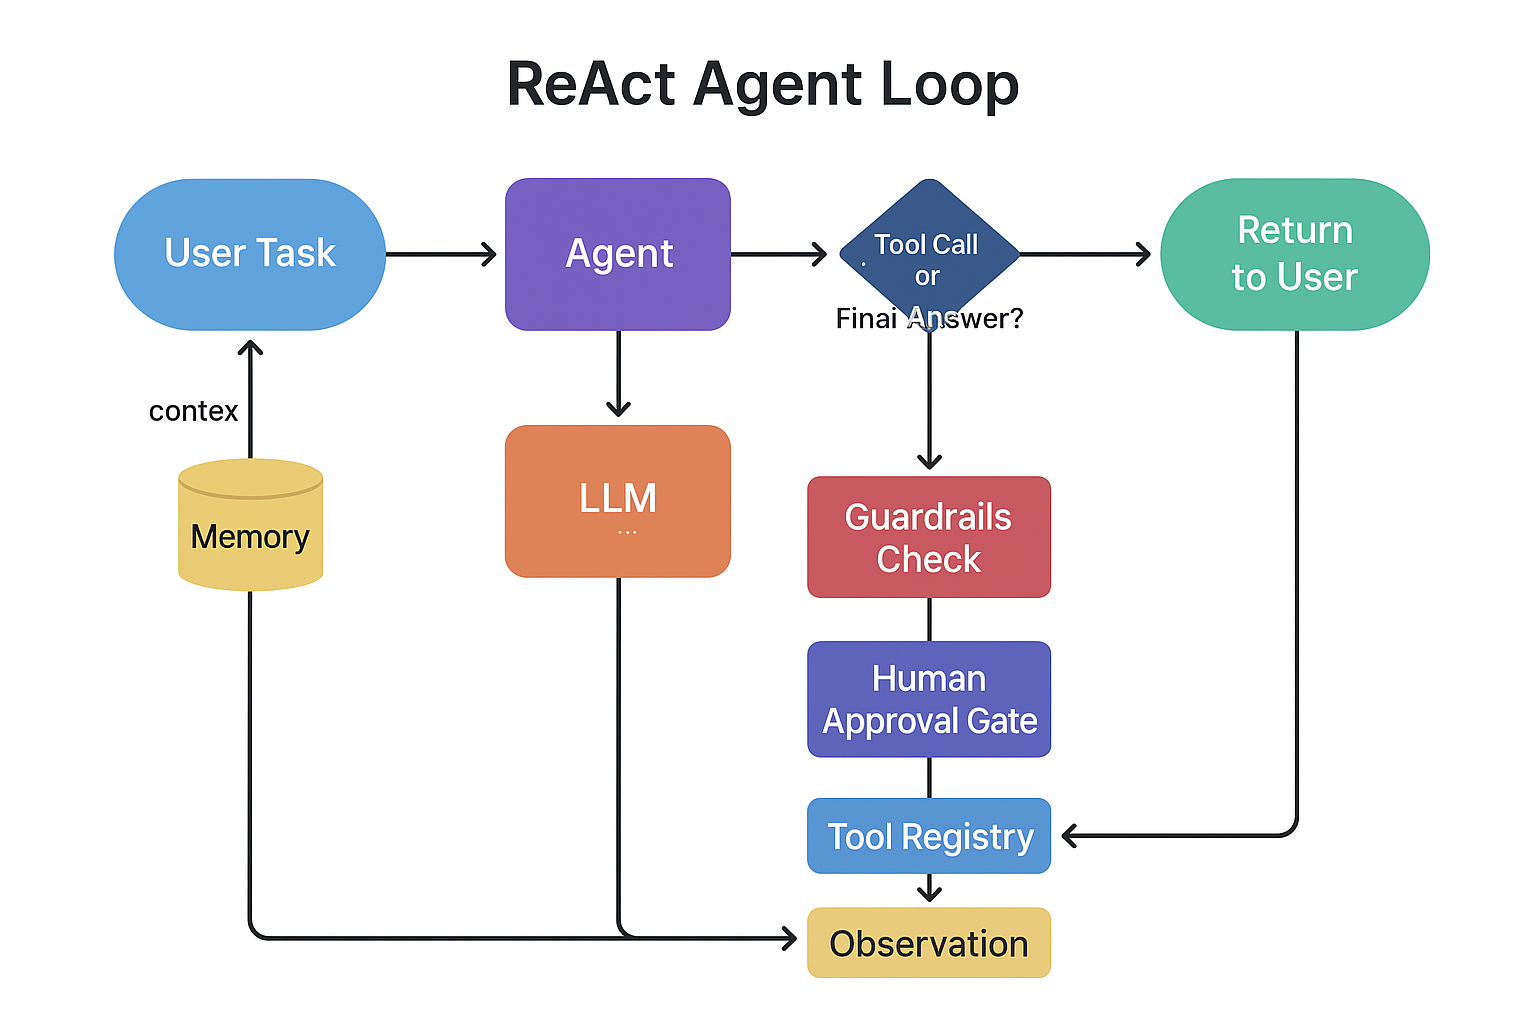
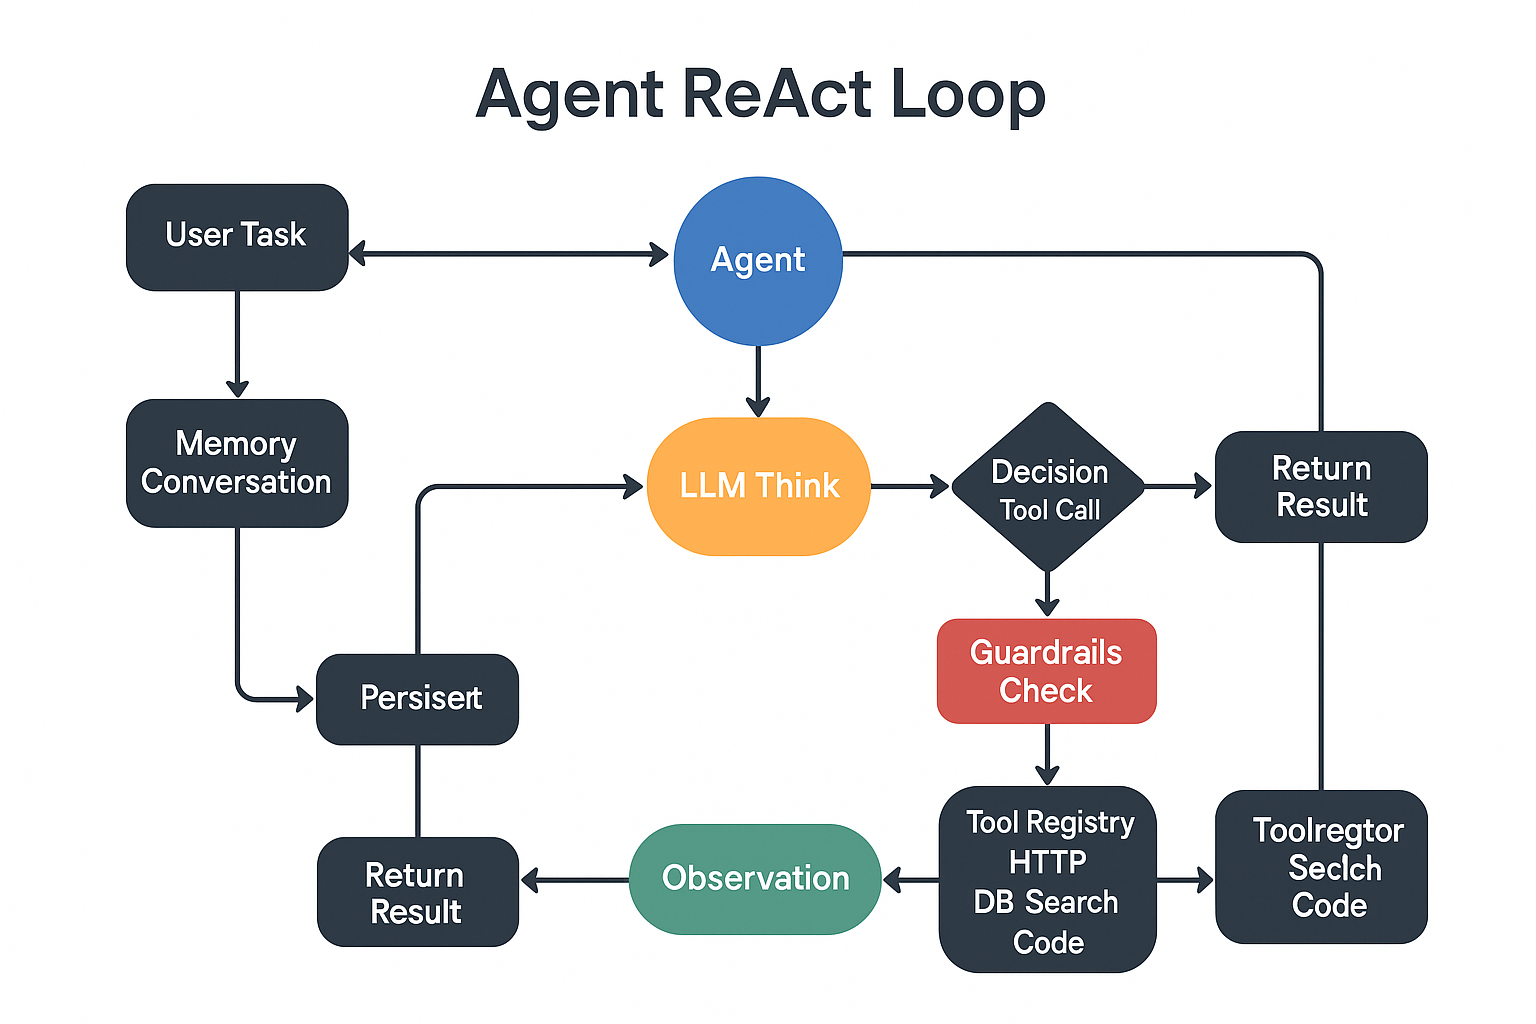
docs: add architecture diagrams (Mermaid, PNG, draw.io)

diff --git a/README.md b/README.md
@@ -11,9 +11,26 @@ AI Platform AWS is a unified API platform that routes AI/ML requests across mult
 
 ### Architecture
 
+```mermaid
+graph TD
+    App[Your Application] --> SDK["@ai-platform-aws/sdk"]
+    SDK --> Gateway["AI Gateway (ECS Fargate)"]
+    Gateway --> Bedrock["AWS Bedrock<br/>Claude 3 | Titan"]
+    Gateway --> OpenAI["OpenAI API<br/>GPT-4o | DALL-E"]
+    Gateway --> Azure["Azure OpenAI<br/>Copilot Studio"]
+    Gateway --> Others["Other APIs<br/>Cohere | Gemini"]
+    Gateway --> Cache["Redis Cache"]
+    Gateway --> CostDB["MongoDB<br/>Cost Tracking | Prompts"]
+    Agents["@ai-platform-aws/agents"] --> SDK
+    Agents --> Tools["Tool Registry<br/>HTTP | DB | Search | Code"]
+    Agents --> Memory["Memory<br/>Conversation | Persistent"]
+    RAG["@ai-platform-aws/rag"] --> VectorDB["MongoDB Atlas<br/>Vector Search"]
+    RAG --> SDK
+```
+
 ![Architecture Overview](docs/diagrams/architecture-overview.png)
 
-> *Editable source: [architecture-overview.drawio](docs/diagrams/architecture-overview.drawio) — open in [draw.io](https://app.diagrams.net/)*
+> *Editable source: [architecture-overview.drawio](docs/diagrams/architecture-overview.drawio) -- open in [draw.io](https://app.diagrams.net/)*
 
 ## Quick Start
 
@@ -167,6 +184,17 @@ OPENAI_API_KEY=your-key
 
 ## RAG Pipeline
 
+```mermaid
+flowchart LR
+    subgraph Ingestion
+        Docs[Documents] --> Chunk[Chunker] --> Embed1[Embeddings] --> Store[MongoDB Atlas<br/>Vector Store]
+    end
+    subgraph Query
+        Question[User Question] --> Embed2[Embed Query] --> Search[Vector Search] --> TopK[Top K Chunks] --> Prompt[Augment Prompt] --> LLM[LLM] --> Answer[Answer]
+    end
+    Store -.-> Search
+```
+
 ![RAG Pipeline](docs/diagrams/rag-pipeline.png)
 
 The `@ai-platform-aws/rag` package provides a ready-to-use RAG pipeline:
@@ -257,9 +285,44 @@ The `@ai-platform-aws/agents` package provides a full agentic AI framework built
 
 The Gateway handles LLM calls; Agents handle orchestration, tool use, memory, and multi-step reasoning.
 
+```mermaid
+flowchart TD
+    Task[User Task] --> Agent[Agent]
+    Agent --> LLM[LLM - Think]
+    LLM --> Decision{Tool Call or Final Answer?}
+    Decision -->|Tool Call| Guardrails[Guardrails Check]
+    Guardrails --> Approval{Needs Approval?}
+    Approval -->|Yes| Human[Human Approval]
+    Human -->|Approved| Execute[Execute Tool]
+    Human -->|Rejected| Agent
+    Approval -->|No| Execute
+    Execute --> Observe[Observation]
+    Observe --> Memory[Update Memory]
+    Memory --> Agent
+    Decision -->|Final Answer| Result[Return Result]
+```
+
 ![ReAct Agent Loop](docs/diagrams/agent-react-loop.png)
 
+> *Editable source: [agent-react-loop.drawio](docs/diagrams/agent-react-loop.drawio) -- open in [draw.io](https://app.diagrams.net/)*
+
 ### Multi-Agent Orchestration Patterns
+
+```mermaid
+graph LR
+    subgraph Router
+        T1[Task] --> R[Router] --> A1[Best Agent] --> R1[Result]
+    end
+    subgraph Pipeline
+        T2[Task] --> P1[Agent A] --> P2[Agent B] --> P3[Agent C] --> R2[Result]
+    end
+    subgraph Parallel
+        T3[Task] --> PA1[Agent A] & PA2[Agent B] & PA3[Agent C] --> Merge[Merge] --> R3[Result]
+    end
+    subgraph Supervisor
+        T4[Task] --> S[Supervisor] --> W1[Worker A] & W2[Worker B] --> S --> R4[Result]
+    end
+```
 
 ![Multi-Agent Patterns](docs/diagrams/multi-agent-patterns.png)
 
